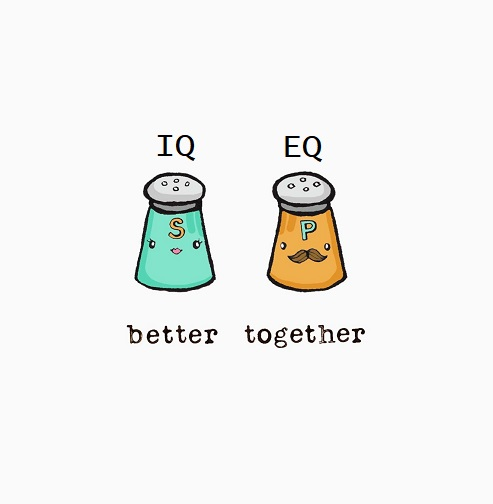
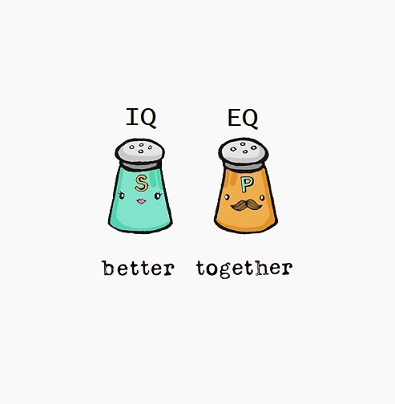
modify some property values in core.css

diff --git a/blog/core-pages/core.css b/blog/core-pages/core.css
@@ -1,18 +1,13 @@
 div.core-content {
     font-family: 'Libre Franklin', sans-serif;
     width: 100%;
-
-    /*CENTERING AS PER -- https://www.w3schools.com/howto/howto_css_center-vertical.asp*/
     margin: 0;
     position: absolute;
-    top: 50%;
-    -ms-transform: translateY(-50%);
-    transform: translateY(-50%);
-    /*CENTERING AS PER -- https://www.w3schools.com/howto/howto_css_center-vertical.asp*/
+    top: 15%;
 }
 
 div.img-col1-display {
-    width: 33%;
+    width: 50%;
 }
 
 div.img-row1-display {

diff --git a/blog/core-pages/sprint3-cultural.css b/blog/core-pages/sprint3-cultural.css
@@ -23,10 +23,7 @@ div.eq-iq h3 {
     font-weight: 2;
     margin: 20px;
     padding: 10px;
-    text-align: center;
-    
-    
-     
+    text-align: center; 
 }
 
 #img-iqvseq {
